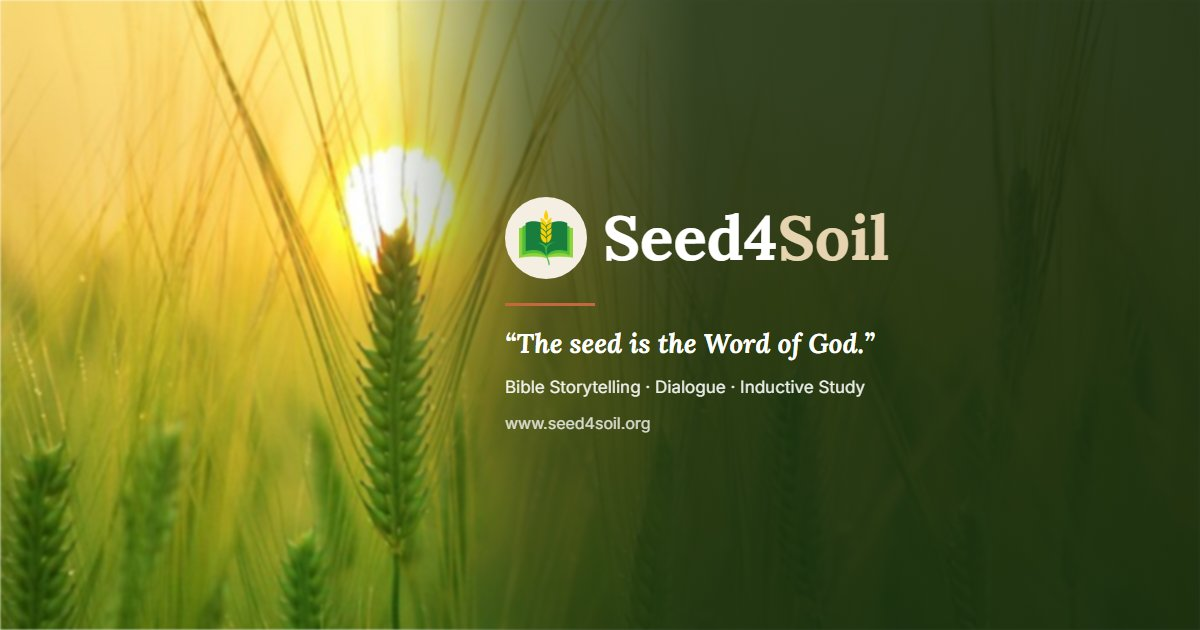
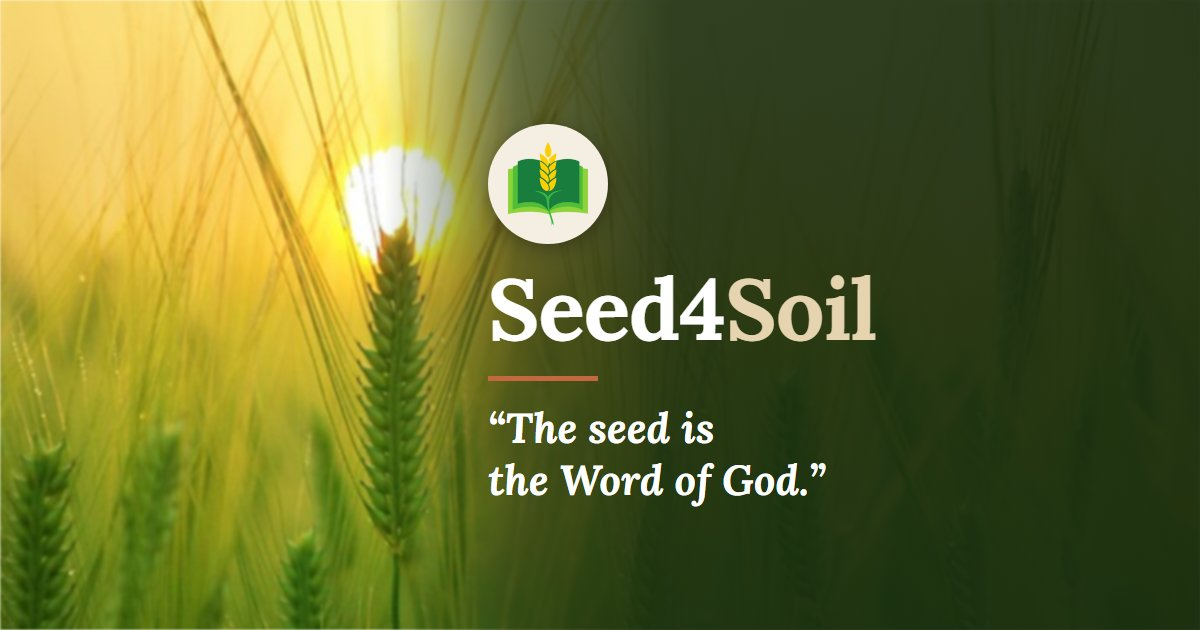
Simplify share image with larger text for small WhatsApp previews; bump to v=3

Changed region(s): [[0.4008, 0.181, 0.74, 0.8143]]

diff --git a/strategies-1.html b/strategies-1.html
@@ -6,12 +6,12 @@
   <meta name="description" content="STRATEGIES 1 Training: come to God's Word the way Jesus and His disciples did. Learn the five strategies, tell your first Bible story, and engage Scripture with no books, buildings, or experts required." />
   <meta property="og:title" content="Bible Storytelling Training — STRATEGIES 1 | Seed4Soil" />
   <meta property="og:description" content="STRATEGIES 1 Training: come to God's Word the way Jesus and His disciples did. Learn the five strategies, tell your first Bible story, and engage Scripture with no books, buildings, or experts required." />
-  <meta property="og:image" content="https://www.seed4soil.org/images/share.jpg?v=2" />
+  <meta property="og:image" content="https://www.seed4soil.org/images/share.jpg?v=3" />
   <meta property="og:image:width" content="1200" />
   <meta property="og:image:height" content="630" />
   <meta property="og:image:alt" content="Seed4Soil: Bible storytelling, dialogue, and inductive study training" />
   <meta name="twitter:card" content="summary_large_image" />
-  <meta name="twitter:image" content="https://www.seed4soil.org/images/share.jpg?v=2" />
+  <meta name="twitter:image" content="https://www.seed4soil.org/images/share.jpg?v=3" />
   <meta property="og:url" content="https://www.seed4soil.org/strategies-1" />
   <meta property="og:type" content="website" />
   <title>Bible Storytelling Training — STRATEGIES 1 | Seed4Soil</title>

diff --git a/leadership-strategies.html b/leadership-strategies.html
@@ -6,12 +6,12 @@
   <meta name="description" content="Leadership STRATEGIES Training: Cultivating the Leader's Soil — fruitful Christian leadership strategies from God's Word, from hidden foundations to vision, mission, and goals." />
   <meta property="og:title" content="Christian Leadership Training — Leadership STRATEGIES | Seed4Soil" />
   <meta property="og:description" content="Leadership STRATEGIES Training: Cultivating the Leader's Soil — fruitful Christian leadership strategies from God's Word, from hidden foundations to vision, mission, and goals." />
-  <meta property="og:image" content="https://www.seed4soil.org/images/share.jpg?v=2" />
+  <meta property="og:image" content="https://www.seed4soil.org/images/share.jpg?v=3" />
   <meta property="og:image:width" content="1200" />
   <meta property="og:image:height" content="630" />
   <meta property="og:image:alt" content="Seed4Soil: Bible storytelling, dialogue, and inductive study training" />
   <meta name="twitter:card" content="summary_large_image" />
-  <meta name="twitter:image" content="https://www.seed4soil.org/images/share.jpg?v=2" />
+  <meta name="twitter:image" content="https://www.seed4soil.org/images/share.jpg?v=3" />
   <meta property="og:url" content="https://www.seed4soil.org/leadership-strategies" />
   <meta property="og:type" content="website" />
   <title>Christian Leadership Training — Leadership STRATEGIES | Seed4Soil</title>

diff --git a/trainings.html b/trainings.html
@@ -6,12 +6,12 @@
   <meta name="description" content="Seed4Soil Trainings: six Word Engagement trainings — from telling your first Bible story to leading storytelling movements in oral cultures. Find the training that fits your group." />
   <meta property="og:title" content="Bible Engagement & Storytelling Trainings | Seed4Soil" />
   <meta property="og:description" content="Seed4Soil Trainings: six Word Engagement trainings — from telling your first Bible story to leading storytelling movements in oral cultures. Find the training that fits your group." />
-  <meta property="og:image" content="https://www.seed4soil.org/images/share.jpg?v=2" />
+  <meta property="og:image" content="https://www.seed4soil.org/images/share.jpg?v=3" />
   <meta property="og:image:width" content="1200" />
   <meta property="og:image:height" content="630" />
   <meta property="og:image:alt" content="Seed4Soil: Bible storytelling, dialogue, and inductive study training" />
   <meta name="twitter:card" content="summary_large_image" />
-  <meta name="twitter:image" content="https://www.seed4soil.org/images/share.jpg?v=2" />
+  <meta name="twitter:image" content="https://www.seed4soil.org/images/share.jpg?v=3" />
   <meta property="og:url" content="https://www.seed4soil.org/trainings" />
   <meta property="og:type" content="website" />
   <title>Bible Engagement & Storytelling Trainings | Seed4Soil</title>

diff --git a/strategies-2-oral.html b/strategies-2-oral.html
@@ -6,12 +6,12 @@
   <meta name="description" content="STRATEGIES 2 for Oral Cultures: the 8 Steps of Obedience — a complete discipleship foundation for new believers, taught entirely through story, memory, and dialogue." />
   <meta property="og:title" content="Discipleship Training for Oral Learners — 8 Steps | Seed4Soil" />
   <meta property="og:description" content="STRATEGIES 2 for Oral Cultures: the 8 Steps of Obedience — a complete discipleship foundation for new believers, taught entirely through story, memory, and dialogue." />
-  <meta property="og:image" content="https://www.seed4soil.org/images/share.jpg?v=2" />
+  <meta property="og:image" content="https://www.seed4soil.org/images/share.jpg?v=3" />
   <meta property="og:image:width" content="1200" />
   <meta property="og:image:height" content="630" />
   <meta property="og:image:alt" content="Seed4Soil: Bible storytelling, dialogue, and inductive study training" />
   <meta name="twitter:card" content="summary_large_image" />
-  <meta name="twitter:image" content="https://www.seed4soil.org/images/share.jpg?v=2" />
+  <meta name="twitter:image" content="https://www.seed4soil.org/images/share.jpg?v=3" />
   <meta property="og:url" content="https://www.seed4soil.org/strategies-2-oral" />
   <meta property="og:type" content="website" />
   <title>Discipleship Training for Oral Learners — 8 Steps | Seed4Soil</title>

diff --git a/strategies-2.html b/strategies-2.html
@@ -6,12 +6,12 @@
   <meta name="description" content="STRATEGIES 2 Training: Practitioner Level 2 — practice and develop your Bible storytelling and dialogue skill through the 7 Steps, with coaching at every turn." />
   <meta property="og:title" content="Advanced Bible Storytelling Training — STRATEGIES 2 | Seed4Soil" />
   <meta property="og:description" content="STRATEGIES 2 Training: Practitioner Level 2 — practice and develop your Bible storytelling and dialogue skill through the 7 Steps, with coaching at every turn." />
-  <meta property="og:image" content="https://www.seed4soil.org/images/share.jpg?v=2" />
+  <meta property="og:image" content="https://www.seed4soil.org/images/share.jpg?v=3" />
   <meta property="og:image:width" content="1200" />
   <meta property="og:image:height" content="630" />
   <meta property="og:image:alt" content="Seed4Soil: Bible storytelling, dialogue, and inductive study training" />
   <meta name="twitter:card" content="summary_large_image" />
-  <meta name="twitter:image" content="https://www.seed4soil.org/images/share.jpg?v=2" />
+  <meta name="twitter:image" content="https://www.seed4soil.org/images/share.jpg?v=3" />
   <meta property="og:url" content="https://www.seed4soil.org/strategies-2" />
   <meta property="og:type" content="website" />
   <title>Advanced Bible Storytelling Training — STRATEGIES 2 | Seed4Soil</title>

diff --git a/7-strategies-oral.html b/7-strategies-oral.html
@@ -6,12 +6,12 @@
   <meta name="description" content="STRATEGIES 1 for Oral Cultures: a Scripture-story approach for grassroots disciple-makers — seven strategies for bringing God's Word to oral learning communities." />
   <meta property="og:title" content="Bible Storytelling Training for Oral Cultures | Seed4Soil" />
   <meta property="og:description" content="STRATEGIES 1 for Oral Cultures: a Scripture-story approach for grassroots disciple-makers — seven strategies for bringing God's Word to oral learning communities." />
-  <meta property="og:image" content="https://www.seed4soil.org/images/share.jpg?v=2" />
+  <meta property="og:image" content="https://www.seed4soil.org/images/share.jpg?v=3" />
   <meta property="og:image:width" content="1200" />
   <meta property="og:image:height" content="630" />
   <meta property="og:image:alt" content="Seed4Soil: Bible storytelling, dialogue, and inductive study training" />
   <meta name="twitter:card" content="summary_large_image" />
-  <meta name="twitter:image" content="https://www.seed4soil.org/images/share.jpg?v=2" />
+  <meta name="twitter:image" content="https://www.seed4soil.org/images/share.jpg?v=3" />
   <meta property="og:url" content="https://www.seed4soil.org/7-strategies-oral" />
   <meta property="og:type" content="website" />
   <title>Bible Storytelling Training for Oral Cultures | Seed4Soil</title>

diff --git a/why-storytelling-dialogue.html b/why-storytelling-dialogue.html
@@ -6,12 +6,12 @@
   <meta name="description" content="Why did Jesus teach in stories and questions? Explore the methods He used — and why storytelling and dialogue remain the most powerful teaching tools." />
   <meta property="og:title" content="Why Bible Storytelling? Jesus' Teaching Method | Seed4Soil" />
   <meta property="og:description" content="Why did Jesus teach in stories and questions? Explore the methods He used — and why storytelling and dialogue remain the most powerful teaching tools." />
-  <meta property="og:image" content="https://www.seed4soil.org/images/share.jpg?v=2" />
+  <meta property="og:image" content="https://www.seed4soil.org/images/share.jpg?v=3" />
   <meta property="og:image:width" content="1200" />
   <meta property="og:image:height" content="630" />
   <meta property="og:image:alt" content="Seed4Soil: Bible storytelling, dialogue, and inductive study training" />
   <meta name="twitter:card" content="summary_large_image" />
-  <meta name="twitter:image" content="https://www.seed4soil.org/images/share.jpg?v=2" />
+  <meta name="twitter:image" content="https://www.seed4soil.org/images/share.jpg?v=3" />
   <meta property="og:url" content="https://www.seed4soil.org/why-storytelling-dialogue" />
   <meta property="og:type" content="website" />
   <title>Why Bible Storytelling? Jesus' Teaching Method | Seed4Soil</title>

diff --git a/story-learning-strategies.html b/story-learning-strategies.html
@@ -6,12 +6,12 @@
   <meta name="description" content="Seven steps for learning and retelling biblical stories — an oral inductive method for planting God's Word deeply in any culture or context." />
   <meta property="og:title" content="Learn & Tell Bible Stories — Story Learning Method | Seed4Soil" />
   <meta property="og:description" content="Seven steps for learning and retelling biblical stories — an oral inductive method for planting God's Word deeply in any culture or context." />
-  <meta property="og:image" content="https://www.seed4soil.org/images/share.jpg?v=2" />
+  <meta property="og:image" content="https://www.seed4soil.org/images/share.jpg?v=3" />
   <meta property="og:image:width" content="1200" />
   <meta property="og:image:height" content="630" />
   <meta property="og:image:alt" content="Seed4Soil: Bible storytelling, dialogue, and inductive study training" />
   <meta name="twitter:card" content="summary_large_image" />
-  <meta name="twitter:image" content="https://www.seed4soil.org/images/share.jpg?v=2" />
+  <meta name="twitter:image" content="https://www.seed4soil.org/images/share.jpg?v=3" />
   <meta property="og:url" content="https://www.seed4soil.org/story-learning-strategies" />
   <meta property="og:type" content="website" />
   <title>Learn & Tell Bible Stories — Story Learning Method | Seed4Soil</title>

diff --git a/custom-events.html b/custom-events.html
@@ -6,12 +6,12 @@
   <meta name="description" content="Custom Word Engagement Events — Seed4Soil designs workshops and Bible engagement events shaped to the specific context, culture, and needs of your group." />
   <meta property="og:title" content="Custom Bible Engagement Training Events | Seed4Soil" />
   <meta property="og:description" content="Custom Word Engagement Events — Seed4Soil designs workshops and Bible engagement events shaped to the specific context, culture, and needs of your group." />
-  <meta property="og:image" content="https://www.seed4soil.org/images/share.jpg?v=2" />
+  <meta property="og:image" content="https://www.seed4soil.org/images/share.jpg?v=3" />
   <meta property="og:image:width" content="1200" />
   <meta property="og:image:height" content="630" />
   <meta property="og:image:alt" content="Seed4Soil: Bible storytelling, dialogue, and inductive study training" />
   <meta name="twitter:card" content="summary_large_image" />
-  <meta name="twitter:image" content="https://www.seed4soil.org/images/share.jpg?v=2" />
+  <meta name="twitter:image" content="https://www.seed4soil.org/images/share.jpg?v=3" />
   <meta property="og:url" content="https://www.seed4soil.org/custom-events" />
   <meta property="og:type" content="website" />
   <title>Custom Bible Engagement Training Events | Seed4Soil</title>

diff --git a/what-is-preaching.html b/what-is-preaching.html
@@ -6,12 +6,12 @@
   <meta name="description" content="What does "preaching" mean in Scripture? Explore the difference between Logos, Rhema, and men's words — and what God's Word is designed to do." />
   <meta property="og:title" content="What Does &quot;Preaching&quot; Mean in Scripture? | Seed4Soil" />
   <meta property="og:description" content="What does "preaching" mean in Scripture? Explore the difference between Logos, Rhema, and men's words — and what God's Word is designed to do." />
-  <meta property="og:image" content="https://www.seed4soil.org/images/share.jpg?v=2" />
+  <meta property="og:image" content="https://www.seed4soil.org/images/share.jpg?v=3" />
   <meta property="og:image:width" content="1200" />
   <meta property="og:image:height" content="630" />
   <meta property="og:image:alt" content="Seed4Soil: Bible storytelling, dialogue, and inductive study training" />
   <meta name="twitter:card" content="summary_large_image" />
-  <meta name="twitter:image" content="https://www.seed4soil.org/images/share.jpg?v=2" />
+  <meta name="twitter:image" content="https://www.seed4soil.org/images/share.jpg?v=3" />
   <meta property="og:url" content="https://www.seed4soil.org/what-is-preaching" />
   <meta property="og:type" content="website" />
   <title>What Does “Preaching” Mean in Scripture? | Seed4Soil</title>

diff --git a/about.html b/about.html
@@ -6,12 +6,12 @@
   <meta name="description" content="Seed4Soil exists to plant God's Written Word in the hearts of disciples everywhere — through oral, inductive Bible engagement rooted in the Parable of the Sower." />
   <meta property="og:title" content="About Seed4Soil — Our Mission & Approach" />
   <meta property="og:description" content="Seed4Soil exists to plant God's Written Word in the hearts of disciples everywhere — through oral, inductive Bible engagement rooted in the Parable of the Sower." />
-  <meta property="og:image" content="https://www.seed4soil.org/images/share.jpg?v=2" />
+  <meta property="og:image" content="https://www.seed4soil.org/images/share.jpg?v=3" />
   <meta property="og:image:width" content="1200" />
   <meta property="og:image:height" content="630" />
   <meta property="og:image:alt" content="Seed4Soil: Bible storytelling, dialogue, and inductive study training" />
   <meta name="twitter:card" content="summary_large_image" />
-  <meta name="twitter:image" content="https://www.seed4soil.org/images/share.jpg?v=2" />
+  <meta name="twitter:image" content="https://www.seed4soil.org/images/share.jpg?v=3" />
   <meta property="og:url" content="https://www.seed4soil.org/about" />
   <meta property="og:type" content="website" />
   <title>About Seed4Soil — Our Mission & Approach</title>

diff --git a/stony-soil.html b/stony-soil.html
@@ -6,12 +6,12 @@
   <meta name="description" content="Stony soil: shallow ground with rock just beneath. The Word sprouts quickly but has no root. What does rootless faith look like — and why does it wither?" />
   <meta property="og:title" content="Stony Soil — Parable of the Sower | Seed4Soil" />
   <meta property="og:description" content="Stony soil: shallow ground with rock just beneath. The Word sprouts quickly but has no root. What does rootless faith look like — and why does it wither?" />
-  <meta property="og:image" content="https://www.seed4soil.org/images/share.jpg?v=2" />
+  <meta property="og:image" content="https://www.seed4soil.org/images/share.jpg?v=3" />
   <meta property="og:image:width" content="1200" />
   <meta property="og:image:height" content="630" />
   <meta property="og:image:alt" content="Seed4Soil: Bible storytelling, dialogue, and inductive study training" />
   <meta name="twitter:card" content="summary_large_image" />
-  <meta name="twitter:image" content="https://www.seed4soil.org/images/share.jpg?v=2" />
+  <meta name="twitter:image" content="https://www.seed4soil.org/images/share.jpg?v=3" />
   <meta property="og:url" content="https://www.seed4soil.org/stony-soil" />
   <meta property="og:type" content="website" />
   <title>Stony Soil — Parable of the Sower | Seed4Soil</title>
